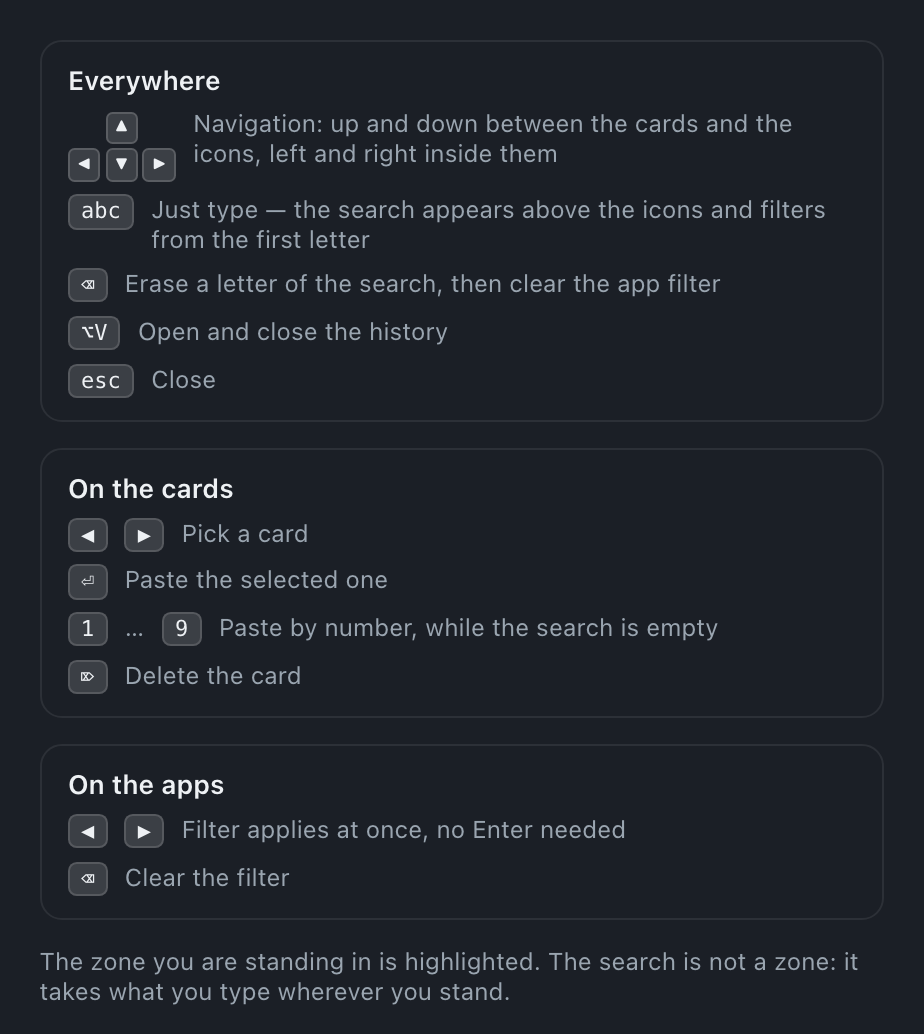
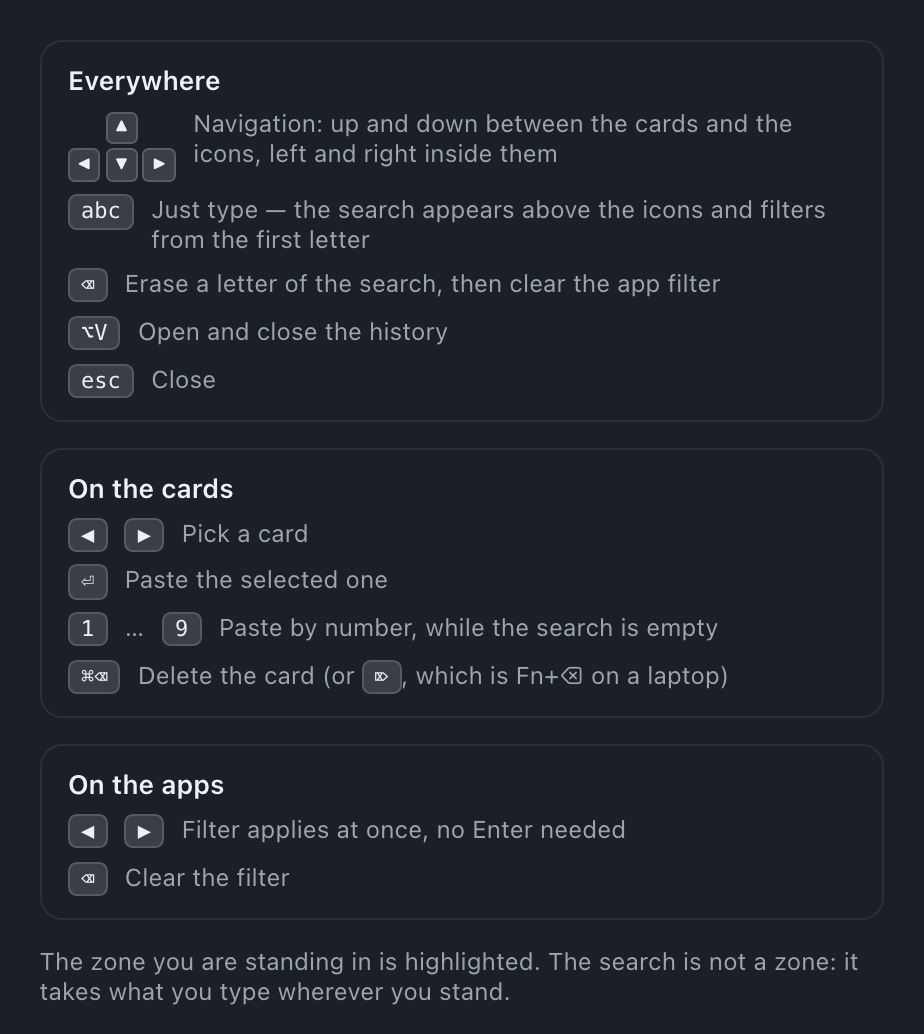
Delete a card with ⌘⌫, the key a Mac already means it with
⌦ alone was the wrong key to land on: on a laptop it is Fn+⌫, which is
not a one-handed gesture, and ⌘⌫ is what Finder, Mail and every other
list already use to delete the thing in front of you. Both work; ⌘⌫ is
what the cheat sheet leads with.

Changed region(s): [[0.0909, 0.619, 0.5455, 0.6809], [0.5758, 0.6499, 0.7879, 0.6809]]

diff --git a/src/keys.test.js b/src/keys.test.js
@@ -24,6 +24,10 @@ describe("typing goes to the search from wherever you are", () => {
   it("leaves ⌘-combinations to the system", () => {
     expect(keyAction(press("q", { meta: true }), at())).toBeNull();
   });
+
+  it("does not type a letter that arrived with ⌘ held", () => {
+    expect(keyAction(press("a", { meta: true }), at({ query: "as" }))).toBeNull();
+  });
 });
 
 describe("digits: a shortcut while the search is empty, characters once it is not", () => {
@@ -51,6 +55,18 @@ describe("backspace erases, delete deletes", () => {
 
   it("deletes the selected card", () => {
     expect(keyAction(press("Delete"), at())).toEqual({ type: "deleteCard" });
+  });
+
+  it("deletes on ⌘⌫ too — Fn+⌫ is not a one-handed gesture on a laptop", () => {
+    expect(keyAction(press("Backspace", { meta: true }), at())).toEqual({ type: "deleteCard" });
+  });
+
+  it("⌘⌫ deletes the card, it does not erase the query", () => {
+    expect(keyAction(press("Backspace", { meta: true }), at({ query: "ass" }))).toEqual({ type: "deleteCard" });
+  });
+
+  it("⌘⌫ on the app row deletes nothing", () => {
+    expect(keyAction(press("Backspace", { meta: true }), at({ zone: "apps" }))).toBeNull();
   });
 
   it("does not delete a card from the app row, where nothing is selected", () => {

diff --git a/src/keys.js b/src/keys.js
@@ -15,7 +15,13 @@ export function keyAction(press, state) {
   const { key, meta, ctrl, alt } = press;
   const { zone, query, hasFilter } = state;
 
-  // Cmd/Ctrl combinations belong to the system, not to us.
+  // ⌘⌫ is how a Mac deletes the thing you are looking at — Finder, Mail, every
+  // list. On a laptop the forward-delete key it stands in for is Fn+⌫, which is
+  // not a one-handed gesture.
+  if (meta && key === "Backspace") {
+    return zone === "cards" ? { type: "deleteCard" } : null;
+  }
+  // Every other Cmd/Ctrl combination belongs to the system, not to us.
   if (meta || ctrl) return null;
 
   switch (key) {
@@ -39,8 +45,9 @@ export function keyAction(press, state) {
       if (hasFilter) return { type: "clearFilter" };
       return null;
     case "Delete":
-      // Destructive, so it only fires where the user is standing and can see what
-      // is selected.
+      // The other way in — a real ⌦ key, or Fn+⌫ on a laptop. Destructive either
+      // way, so it only fires where the user is standing and can see what is
+      // selected.
       return zone === "cards" ? { type: "deleteCard" } : null;
     default:
       break;

diff --git a/src/shortcuts.html b/src/shortcuts.html
@@ -23,7 +23,7 @@
       <div class="row"><kbd>◀</kbd><kbd>▶</kbd><span>Pick a card</span></div>
       <div class="row"><kbd>⏎</kbd><span>Paste the selected one</span></div>
       <div class="row"><kbd>1</kbd>…<kbd>9</kbd><span>Paste by number, while the search is empty</span></div>
-      <div class="row"><kbd>⌦</kbd><span>Delete the card</span></div>
+      <div class="row"><kbd>⌘⌫</kbd><span>Delete the card (or <kbd>⌦</kbd>, which is Fn+⌫ on a laptop)</span></div>
     </div>
 
     <div class="zone" data-zone="apps">

diff --git a/CHANGELOG.md b/CHANGELOG.md
@@ -15,7 +15,7 @@ enough to understand *what* changed and *why* without digging through diffs.
 **The search is no longer a place you go.** It was a zone between the cards and the icons: to search you walked up into it, typed, then walked back down to the cards to choose one. The keys now say what the popup is: the cursor lives on the cards and the icons and nothing else, and whatever you type goes into the search from wherever you stand. ⌥V → "assist" → ◀▶ → ⏎, in one gesture.
 
 - The query surfaces *above* the icon row and only once there is something in it, so nothing below it moves when it appears. It is a `<span>`, not an `<input>`: nothing focusable, no click target, no arrow can walk into it. The caret is drawn.
-- ⌫ now erases a letter of the query, then (with nothing left to erase) clears the app filter. Deleting a card moved to ⌦ — the destructive key is no longer the one you reach for to fix a typo. It only fires on the cards, where the selection is visible.
+- ⌫ now erases a letter of the query, then (with nothing left to erase) clears the app filter. Deleting a card moved off it: **⌘⌫**, the Mac idiom (Finder, Mail, every list), with ⌦ as the second way in. ⌦ alone was a bad key to land on — on a laptop it is Fn+⌫, which is not a one-handed gesture, and it is the first thing the user tried. The destructive key is no longer the one you reach for to fix a typo, and it only fires on the cards, where the selection is visible.
 - Digits 1–9 paste the n-th card while the search is empty and are characters once there is a query — a key that pastes card two cannot also be how you search for "v2". Same rule as before, keyed on the query instead of the (now absent) search zone.
 - The keymap moved into `keys.js` as one pure function: the rules are read and tested without a DOM, `main.js` only carries them out. The cheat sheet lost its search zone and the settings window's cheat-sheet twin shrank to 470 to fit.
 

diff --git a/README.md b/README.md
@@ -46,7 +46,7 @@ The icon row on top. Step onto an app — only its clips remain.
 
 ## Or just start typing
 
-There is nowhere to go to search: type from wherever you are standing and the query appears above the icons, filtering from the first letter, matches marked. `⌫` takes a letter back, `⌦` deletes a card.
+There is nowhere to go to search: type from wherever you are standing and the query appears above the icons, filtering from the first letter, matches marked. `⌫` takes a letter back; a card is deleted with `⌘⌫`.
 
 ![Live search](docs/screenshots/search.png)
 